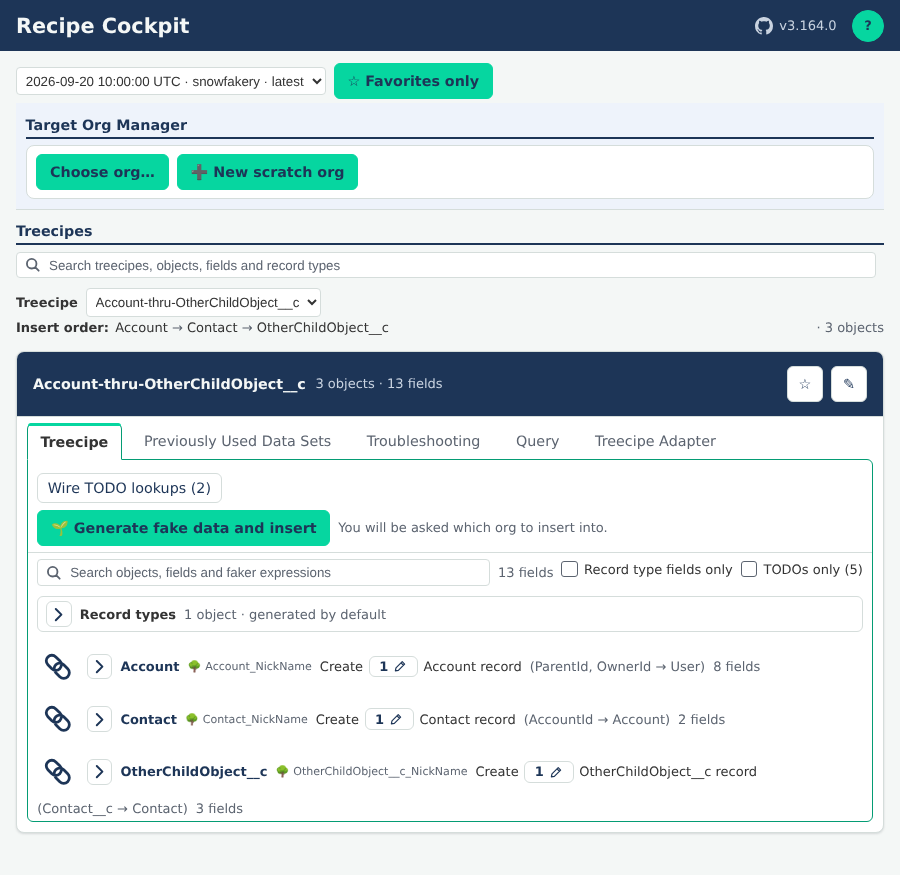
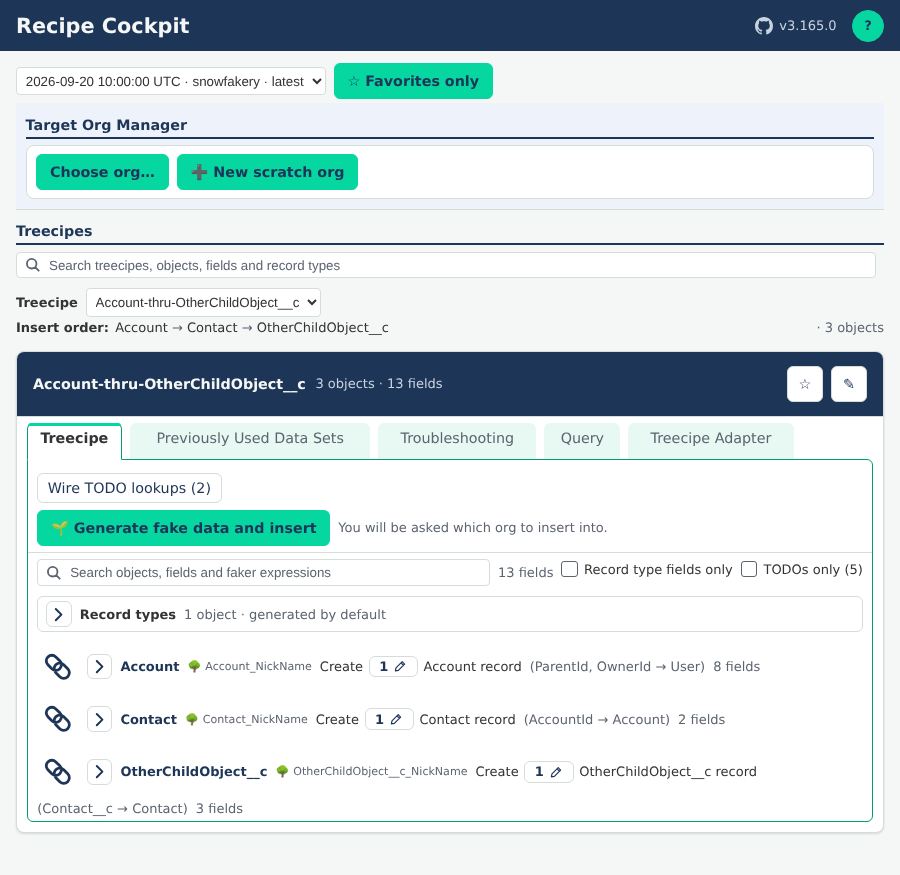
v3.165.0 — Recipe Cockpit: unselected tabs rest in the mint fill, and hover makes them bold and underlined (#493)
An unselected card tab or Troubleshooting sub-tab now draws the mint
--sdt-row-hover fill with its rounded top at rest. Hovering an unselected,
enabled tab bolds and underlines its label. A hidden bold copy of the label
(data-label, kept by setTabLabel) sets the width, so a hover moves nothing.
Selected and disabled tabs are unchanged. Guide screenshots re-taken.

Claude-Session: https://claude.ai/code/session_01QDhJJFZ83aKj6n8Ut1NriR

Changed region(s): [[0.4044, 0.4937, 0.8711, 0.5246], [0.1556, 0.4937, 0.3733, 0.5246], [0.0311, 0.4937, 0.1244, 0.5246]]

diff --git a/src/treecipe/src/RecipeCockpitService/RecipeCockpitService.ts b/src/treecipe/src/RecipeCockpitService/RecipeCockpitService.ts
@@ -19664,8 +19664,8 @@ ${this.buildPaletteCustomProperties()}
     .treeAddFriends { flex-basis: 100%; display: flex; flex-wrap: wrap; align-items: center; gap: 0.4rem; padding-left: 1.5rem; }
     .treeBody { border-top: 1px solid var(--sdt-border); }
     .treeTabs { display: flex; gap: 0.5rem; padding: 0.4rem 0.6rem 0 0.6rem; }
-    .treeTab { color: var(--sdt-muted); border-color: transparent; border-radius: 6px 6px 0 0; }
-    .treeTab:hover:not(:disabled):not(.selected) { background-color: var(--sdt-row-hover); border-color: transparent; }
+    .treeTab { color: var(--sdt-muted); background-color: var(--sdt-row-hover); border-color: transparent; border-radius: 6px 6px 0 0; }
+    .treeTab:hover:not(:disabled):not(.selected) { background-color: var(--sdt-row-hover); border-color: transparent; font-weight: 600; text-decoration: underline; }
     .treeTab.selected { color: var(--sdt-text); font-weight: 600; }
     .treeTab:active:not(:disabled) { background-color: var(--sdt-row-hover); }
     /*
@@ -19718,8 +19718,8 @@ ${this.buildPaletteCustomProperties()}
     .treeTabs.noMotion .treeTab::after { transition: none; }
     /* THE TROUBLESHOOTING SUB-TABS (#365) LOOK AND MOVE LIKE A CARD'S TABS */
     .troubleshootingSubTabs { display: flex; flex-wrap: wrap; gap: 0.5rem; margin: 0 0.6rem; padding: 0.4rem 0 0 0; }
-    .troubleshootingSubTab { color: var(--sdt-muted); border-color: transparent; border-radius: 6px 6px 0 0; }
-    .troubleshootingSubTab:hover:not(:disabled):not(.selected) { background-color: var(--sdt-row-hover); border-color: transparent; }
+    .troubleshootingSubTab { color: var(--sdt-muted); background-color: var(--sdt-row-hover); border-color: transparent; border-radius: 6px 6px 0 0; }
+    .troubleshootingSubTab:hover:not(:disabled):not(.selected) { background-color: var(--sdt-row-hover); border-color: transparent; font-weight: 600; text-decoration: underline; }
     .troubleshootingSubTab.selected { color: var(--sdt-text); font-weight: 600; }
     .troubleshootingSubTab:active:not(:disabled) { background-color: var(--sdt-row-hover); }
     .troubleshootingSubTab { position: relative; }
@@ -19740,6 +19740,21 @@ ${this.buildPaletteCustomProperties()}
     .troubleshootingSubTabs.movingRight .troubleshootingSubTab::after, .troubleshootingSubTabs.movingLeft .troubleshootingSubTab.selected::after { transform-origin: right; }
     .troubleshootingSubTabs.movingLeft .troubleshootingSubTab::after, .troubleshootingSubTabs.movingRight .troubleshootingSubTab.selected::after { transform-origin: left; }
     .troubleshootingSubTabs.noMotion .troubleshootingSubTab::after { transition: none; }
+    /*
+        An unselected tab rests in the mint fill and goes bold and underlined on hover (#493). A
+        hidden bold copy of its label (data-label, kept by setTabLabel) is as wide as the bold text,
+        so the hover changes no tab's width and the strip does not move. The copy is generated
+        content, so its alternative text is empty and a screen reader reads the label once.
+    */
+    .treeTab, .troubleshootingSubTab { display: inline-flex; flex-direction: column; align-items: center; }
+    .treeTab::before, .troubleshootingSubTab::before {
+        content: attr(data-label) / '';
+        height: 0;
+        overflow: hidden;
+        visibility: hidden;
+        font-weight: 600;
+        pointer-events: none;
+    }
     .treeObjectHeader { padding: 0.35rem 0.6rem; align-items: center; }
     .treeObject { position: relative; }
     .treeObject.treeObjectNested { border-left: 2px solid var(--sdt-border); }
@@ -20758,6 +20773,12 @@ ${Object.entries(RECIPE_COCKPIT_VERB_BUTTON_VERBS).map(([className, verb]) => ` 
         const buttonClassName = 'sdtButton sdtButton-' + kind + (size === 'compact' ? ' sdtButton-compact' : '') + (className ? ' ' + className : '');
         return createElement('button', buttonClassName, textContent);
 
+    }
+
+    // A TAB'S LABEL AND THE HIDDEN BOLD COPY THAT HOLDS ITS WIDTH (#493), ALWAYS WRITTEN TOGETHER
+    function setTabLabel(tabElement, label) {
+        tabElement.textContent = label;
+        tabElement.setAttribute('data-label', label);
     }
 
     let actionCardCount = 0;
@@ -24820,7 +24841,8 @@ ${Object.entries(RECIPE_COCKPIT_VERB_BUTTON_VERBS).map(([className, verb]) => ` 
     function addTreeTab(treeState, tabsElement, tabName, tabLabel, panelElement) {
 
         const isSelected = tabName === treeState.selectedTab;
-        const tabElement = createButton('secondary', isSelected ? 'treeTab selected' : 'treeTab', tabLabel);
+        const tabElement = createButton('secondary', isSelected ? 'treeTab selected' : 'treeTab');
+        setTabLabel(tabElement, tabLabel);
 
         tabElement.setAttribute('role', 'tab');
         tabElement.setAttribute('aria-selected', isSelected ? 'true' : 'false');
@@ -26316,7 +26338,8 @@ ${Object.entries(RECIPE_COCKPIT_VERB_BUTTON_VERBS).map(([className, verb]) => ` 
     function addTroubleshootingSubTab(treeState, subTab, panelElement) {
 
         const label = TROUBLESHOOTING_SUB_TAB_LABELS[subTab];
-        const tabElement = createButton('secondary', 'troubleshootingSubTab troubleshootingSubTab-' + subTab, label);
+        const tabElement = createButton('secondary', 'troubleshootingSubTab troubleshootingSubTab-' + subTab);
+        setTabLabel(tabElement, label);
         const subPanelElement = createElement('div', 'troubleshootingSubPanel troubleshootingSubPanel-' + subTab + ' hidden');
         const searchKey = troubleshootingSearchKey(subTab);
 
@@ -26457,7 +26480,7 @@ ${Object.entries(RECIPE_COCKPIT_VERB_BUTTON_VERBS).map(([className, verb]) => ` 
         });
 
         const todoCount = subTabState.todoGroups.reduce(function (count, groupState) { return count + groupState.entries.length; }, 0);
-        subTabState.tabElement.textContent = todoCount > 0 ? TROUBLESHOOTING_SUB_TAB_LABELS.todos + ' (' + todoCount + ')' : TROUBLESHOOTING_SUB_TAB_LABELS.todos;
+        setTabLabel(subTabState.tabElement, todoCount > 0 ? TROUBLESHOOTING_SUB_TAB_LABELS.todos + ' (' + todoCount + ')' : TROUBLESHOOTING_SUB_TAB_LABELS.todos);
 
         if (todoCount === 0) {
             subTabState.listElement.appendChild(createElement('div', 'treeEmpty muted', NO_TREE_TODOS_NOTE));

diff --git a/src/treecipe/src/RecipeCockpitService/tests/RecipeCockpitTabOutline.test.ts b/src/treecipe/src/RecipeCockpitService/tests/RecipeCockpitTabOutline.test.ts
@@ -155,6 +155,72 @@ describe('RecipeCockpitService, the selected tab\'s outline and the search icon 
 
     });
 
+    describe('an unselected tab at rest and on hover (#493)', () => {
+
+        const TAB_CLASSES = ['treeTab', 'troubleshootingSubTab'];
+
+        it.each(TAB_CLASSES)('draws an unselected .%s in the mint fill with its rounded top at rest', (tabClass) => {
+
+            const restRule = styleSheet.match(new RegExp('\\n\\s*\\.' + tabClass + ' \\{ color[^}]*\\}'))![0];
+            expect(restRule).toContain('color: var(--sdt-muted);');
+            expect(restRule).toContain('background-color: var(--sdt-row-hover);');
+            expect(restRule).toContain('border-color: transparent;');
+            expect(restRule).toContain('border-radius: 6px 6px 0 0;');
+
+        });
+
+        it.each(TAB_CLASSES)('bolds and underlines an unselected, enabled .%s on hover, keeping the fill and drawing no border', (tabClass) => {
+
+            const hoverRule = styleSheet.match(new RegExp('\\.' + tabClass + ':hover:not\\(:disabled\\):not\\(\\.selected\\) \\{[^}]*\\}'))![0];
+            expect(hoverRule).toContain('font-weight: 600;');
+            expect(hoverRule).toContain('text-decoration: underline;');
+            expect(hoverRule).toContain('background-color: var(--sdt-row-hover);');
+            expect(hoverRule).toContain('border-color: transparent;');
+
+        });
+
+        it('reserves the bold label\'s width with a hidden copy a screen reader skips, so a hover moves nothing', () => {
+
+            expect(styleSheet).toContain('.treeTab, .troubleshootingSubTab { display: inline-flex; flex-direction: column; align-items: center; }');
+            const copyRule = styleSheet.match(/\.treeTab::before, \.troubleshootingSubTab::before \{[^}]*\}/)![0];
+            ["content: attr(data-label) / '';", 'height: 0;', 'overflow: hidden;', 'visibility: hidden;', 'font-weight: 600;']
+                .forEach(declaration => expect(copyRule).toContain(declaration));
+
+        });
+
+        it('keeps the selected tab as it was: no underline, and still outranking the unselected hover', () => {
+
+            const selectedRule = styleSheet.match(/\.treeTab\.selected \{[^}]*\}/)![0];
+            expect(selectedRule).toContain('font-weight: 600;');
+            expect(selectedRule).not.toContain('underline');
+            // EVERY TAB RULE THAT UNDERLINES IS HELD TO AN UNSELECTED TAB
+            const underliningTabSelectors = (styleSheet.match(/[^{}]*\{[^}]*text-decoration: underline[^}]*\}/g) || [])
+                .map(rule => rule.substring(0, rule.indexOf('{')).trim())
+                .filter(selector => /\.(treeTab|troubleshootingSubTab)\b/.test(selector));
+            expect(underliningTabSelectors).toEqual([
+                '.treeTab:hover:not(:disabled):not(.selected)',
+                '.troubleshootingSubTab:hover:not(:disabled):not(.selected)'
+            ]);
+
+        });
+
+        it('gives every tab and sub-tab a data-label that is its label, the TODO\'s count included', () => {
+
+            const panel = drawRecipe(loadHistoryRecipe());
+            openEverySearch(panel);
+
+            const tabElements = panel.treeCards().flatMap((treeCard: any) =>
+                [...panel.findAll(treeCard, 'treeTab'), ...panel.findAll(treeCard, 'troubleshootingSubTab')]);
+            expect(tabElements.length).toBeGreaterThan(5);
+            tabElements.forEach((tabElement: any) => {
+                expect(tabElement.textContent.length).toBeGreaterThan(0);
+                expect(tabElement.attributes['data-label']).toBe(tabElement.textContent);
+            });
+
+        });
+
+    });
+
     describe('the search icon', () => {
 
         it('puts one hidden magnifier, built as SVG, at the left of every search box, and leaves the input\'s name alone', () => {

diff --git a/CHANGELOG.md b/CHANGELOG.md
@@ -1,5 +1,15 @@
 # Change Log
 
+## [3.165.0] - Recipe Cockpit: unselected tabs rest in the mint fill, and hover makes them bold and underlined
+
+[#493](https://github.com/jdschleicher/Salesforce-Data-Treecipe/issues/493). An unselected card tab or Troubleshooting sub-tab was bare muted text until hovered, so the strip did not read as tabs, and the hover only added the fill.
+
+- **At rest.** An unselected `.treeTab` and `.troubleshootingSubTab` draw `--sdt-row-hover` with their 6px rounded top, the look hover used to add. No border line is drawn. Muted text on that fill was already held to 4.5:1 by the contrast test.
+- **On hover.** An unselected, enabled tab keeps the fill and its label goes bold (600) and underlined. A selected tab is unchanged, on hover too, and still outranks every hover rule; a disabled tab draws the disabled pair as before.
+- **Nothing moves.** Each tab carries its label in `data-label` (`setTabLabel`, which also rewrites the TODO's count), and a hidden bold copy of it (`::before`, alternative text empty, so a screen reader reads the label once) sets the tab's width, so going bold changes no tab's width or position. Measured in Chromium: identical widths and offsets at rest and on hover.
+- **Guide.** The guide's screenshots were re-taken, so their tab strips show the new resting look.
+- **Tests.** `RecipeCockpitTabOutline.test.ts`: the rest and hover rules for both tab classes, the width-reserving copy, only unselected tabs underlining, and every tab's `data-label` equal to its label.
+
 ## [3.164.0] - Recipe Cockpit: the version and GitHub icon are one CHANGELOG button, and the help closes with ✕
 
 [#487](https://github.com/jdschleicher/Salesforce-Data-Treecipe/issues/487). Only the GitHub icon at the top right opened the CHANGELOG, though the version beside it read as part of the link; the open help could only be closed from **?**; and **?** was taller than its neighbours and looked the same open or closed.
